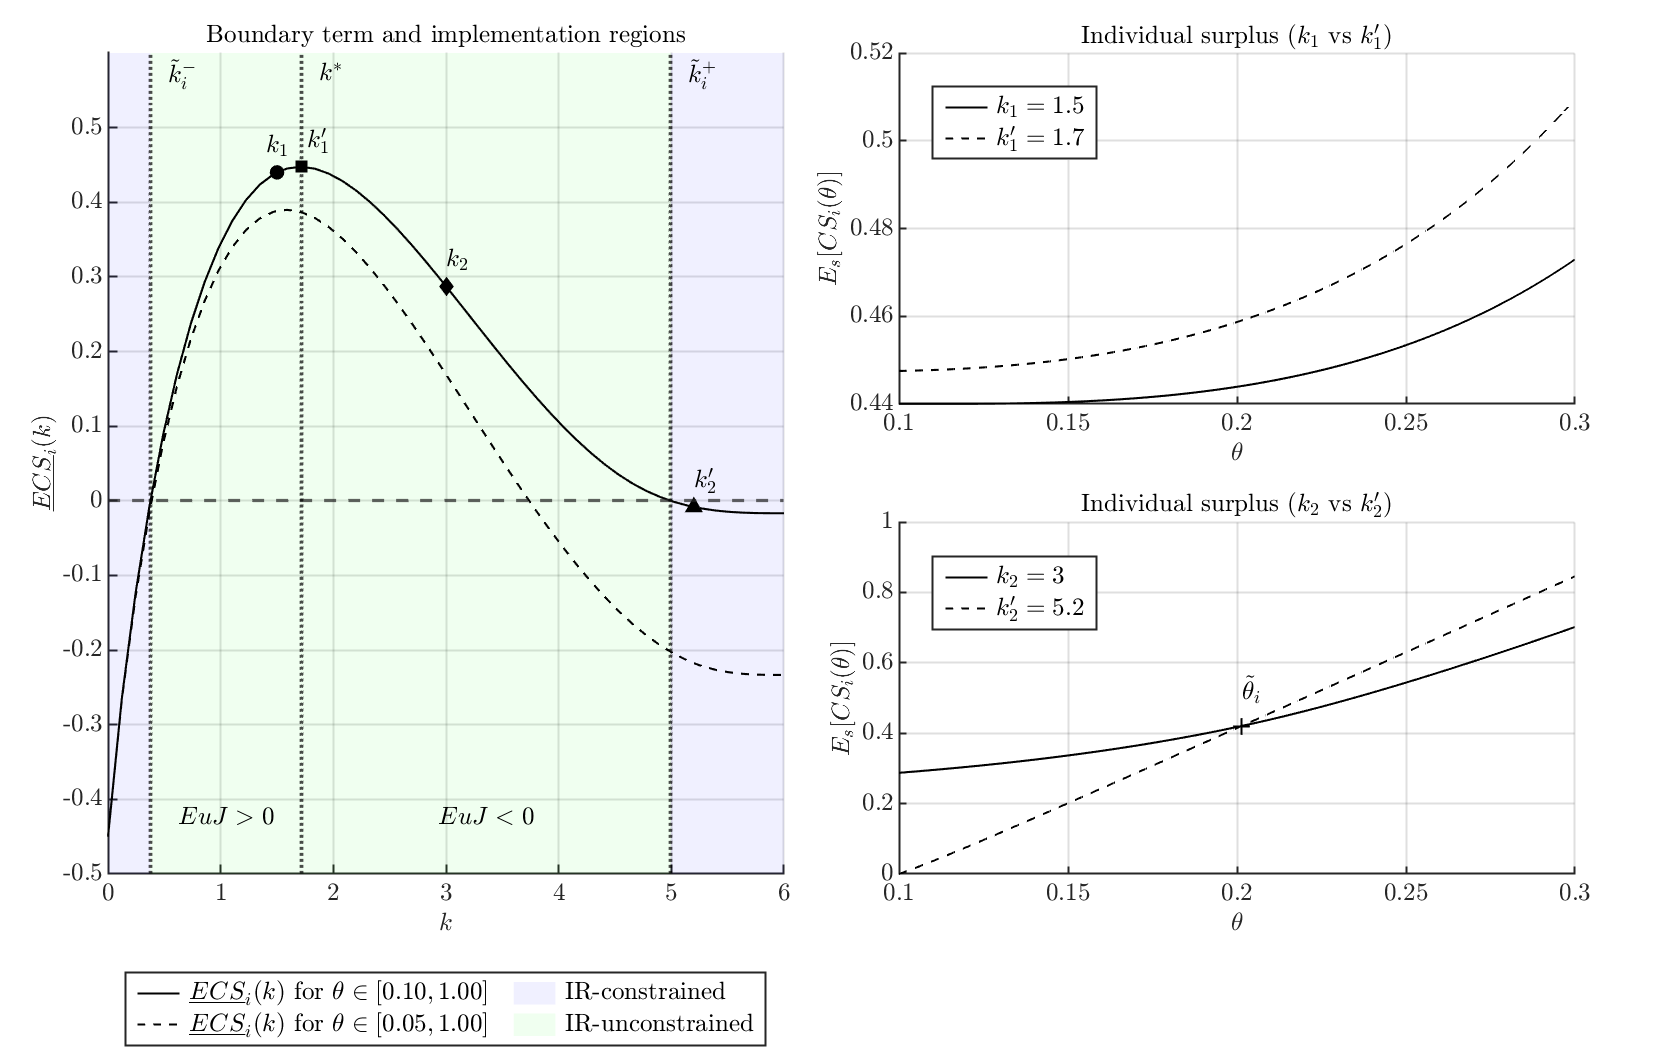
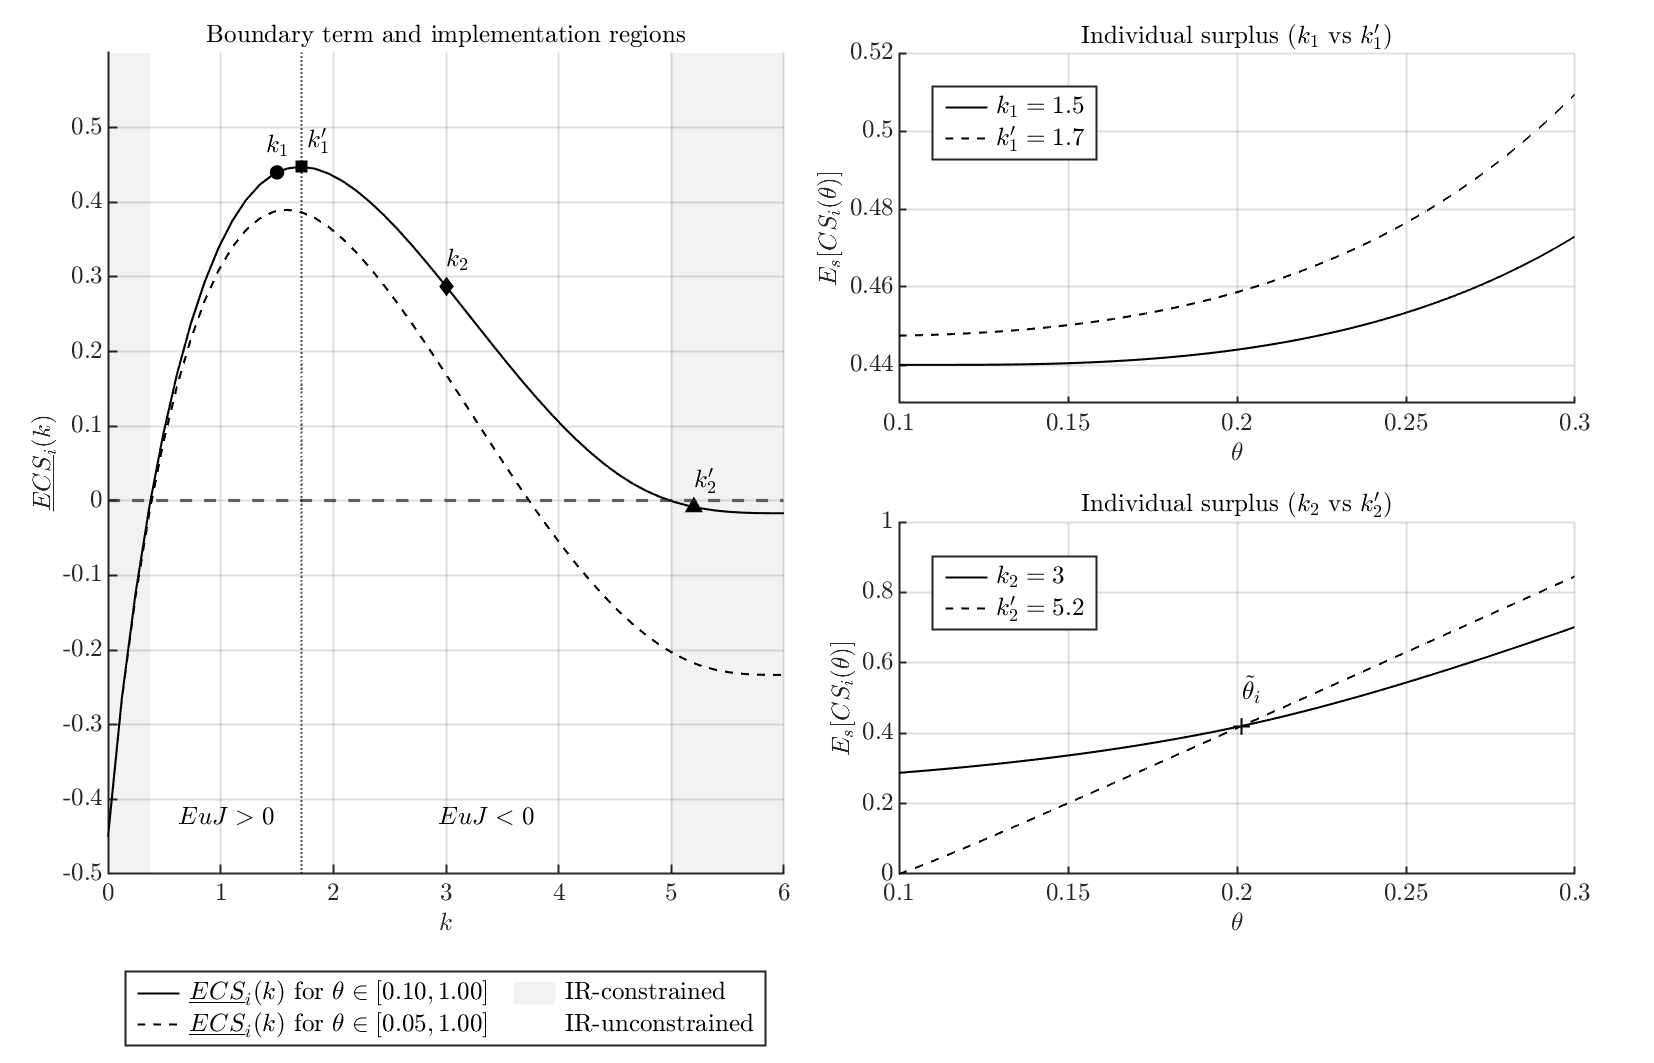
Updates from Overleaf

diff --git a/model_Appendix.tex b/model_Appendix.tex
@@ -175,12 +175,6 @@ Proposition~\ref{prop:implementation} identifies the geometry of the IR-unconstr
 
 Figure~\ref{fig:redistribution_marg_k_uniform} illustrates Theorem~\ref{thm:surplus} and Proposition~\ref{prop:implementation}. The left panel shows the boundary term \eqref{ECSi} as a function of $k_i$ for two type supports, tracing both the implementation region and the sign of \eqref{Eujmd}. The dashed curve has a lower $\underline{\theta}_i$, which increases the mass of consumers with $J_i<0$ and shrinks the range of $k_i$ for which \eqref{Eujmd} is positive, shifting $k^\ast$ to the left. The right panels illustrate the individual surplus effects at two capacity levels: at $k_1$, where \eqref{Eujmd} is positive, all types gain from a capacity expansion; at $k_2$, where \eqref{Eujmd} is negative, only types above the cutoff $\tilde\theta_i$ benefit.
 
-\begin{figure}
-\centering
-\includegraphics[width=1\linewidth]{figure/redistribution_marg_k_uniform.png}
-\caption{Illustration of the individual surplus effect of a capacity expansion. The illustration is based on a quadratic utility function $U(q,s)=(1+s)q - \tfrac{1}{4}q^2,$ with $J_i(\theta)$ derived from a uniform distribution of types, which implies an increasing $R_\theta(\theta)$, and the budget requirement set to $I_i = 0.45$.}
-\label{fig:redistribution_marg_k_uniform}
-\end{figure}
 
 
 %%%%%%%%%%%%%%%%%%%%%%%%%%%%%%%%%%%%%%%%%%%%%%%%%%%%%%%%%%%%%%%%%%%%%%%%%%%%%%%%%%%%%%%%%%%%%%%%%%%%%%%%%%%%%%%%%%%%%%%
@@ -239,12 +233,6 @@ The elasticity condition compares two elasticities: (i) $\left|R_{\mathcal{G}}'(
 
 Figure~\ref{fig:variation_uniform_preference_tradeoff} illustrates this: even when the direction of a preference shift favors the same consumers, a particular concentration of social weight adjustments can exacerbate adverse sorting, worsening rather than improving the trade-off effect.
 
-\begin{figure}
-\centering
-\includegraphics[width=1\linewidth]{figure/variation_uniform_preference_tradeoff.png}
-\caption{Effects of a change in redistributive preferences on the trade-off effect. The first plot shows the new $\lambda_i(\theta)$. The second plot indicates the effect of the perturbation on the term $\Delta R_\theta(\theta)$. The last plot links the condition in Proposition~\ref{prop:Elasticity} to the sign of $\Delta R_\theta'(\theta)$. $R_q(\theta)$ is assumed to be decreasing in $\theta$, $R_\theta(\theta)$ and $J_i(\theta)$ are increasing in $\theta$. In this example, $R_{\mathcal{G}}'(\theta)<0$ and $J_i(\theta)>0$ for all $\theta$, so the worsening effect comes from types generating revenues while receiving proportionally decreasing weights.}
-\label{fig:variation_uniform_preference_tradeoff}
-\end{figure}
 
 %%%%%%%%%%%%%%%%%%%%%%%%%%%%%%%%%%%%%%%%%%%%%%%%%%%%%%%%%%%%%%%%%%%%%%%%%%%%%%%%%%%%%%%%%%%%%%%%%%%%%%%%%%%%%%%%%%%%%%%
 \subsection{Marginal response of category allocations to aggregate capacity}\label{app:dkidk}
@@ -291,6 +279,49 @@ and $\tilde\lambda^\ast I''(k^\ast)>0$. In particular, since \(\Omega_i>0\), for
 \end{lemma}
 
 The lemma shows that the response of \(k_i^\ast\) to aggregate expansion depends on category \(i\) only through the sufficient statistic \(\mathbb E_s\!\left[\mathbb E_i^w[uJ\mid s]\mathbf 1_{\{s\in T_i\}}\right]\). This makes it possible to connect the outer comparative statics to the within-category ordering results.
+
+\newpage
+%%%%%%%%%%%%%%%%%%%%%%%%%%%%%%%%%%%%%%%%%%%%%%%%%%%%%%%%%%%%%%%%%%%%%%%%%%%%%%%%%%%%%%%%%%%%%%%%%%%%%%%%%%%%%%%%%%%%%%%
+
+\section{Additional Figure}
+
+\begin{figure}[H]
+\centering
+\includegraphics[width=1\linewidth]{figure/redistribution_marg_k_uniform.png}
+\caption{Illustration of the individual surplus effect of a capacity expansion. The left panel shows the IR-unconstrained surplus available to the market designer, which can be redistributed to consumers as a function of the category's allocated capacity. When the value is negative, the allocation switches to the IR-Constrained allocation regime. The right panel shows the individual surplus at the optimal allocation across types and at different capacity levels.   The illustration is based on a quadratic utility function $U(q,s)=(1+s)q - \tfrac{1}{4}q^2,$ with $J_i(\theta)$ derived from a uniform distribution of types, which implies an increasing $R_\theta(\theta)$, and the budget requirement set to $I_i = 0.45$.}
+\label{fig:redistribution_marg_k_uniform}
+\end{figure}
+
+\begin{figure}
+    \centering
+    \includegraphics[width=1\linewidth]{figure/appendix_withinperturbation.png}
+    \caption{Comparison of two different redistributive preferences in terms of optimal allocation and of individual surplus with respect to the utilitarian benchmark where $\lambda_i(\theta)=1$. The first panel shows the two social weights that are a mean-preserving perturbation of the benchmark. Case a shows higher weights are placed on higher types, and case b shows higher weights on lower types. The second plot shows the proportional difference in effective social weights. The third plot shows, for a given realization of the state of the world ($s = 0.14$) and a given capacity level ($k_i = 0.9$), the difference in optimal allocation for each type compared to the benchmark. Finally, the last panel shows the same comparison but in terms of expected individual surplus. The utility function is $U(q,s)=a(1+s)\,\frac{q^{\,1-\sigma}}{1-\sigma}$ where $\sigma = 0.6$ and $a =  0.0095$, and types are distributed following a uniform distribution on $[1,2]$.}
+    \label{fig:placeholder}
+\end{figure}
+
+
+\begin{figure}
+\centering
+\includegraphics[width=1\linewidth]{figure/variation_uniform_preference_tradeoff.png}
+\caption{Effects of a change in redistributive preferences. The first plot shows the new $\lambda_i(\theta)$. The second plot indicates the effect of the perturbation on the term $\Delta R_\theta(\theta)$. The last plot links the condition in Proposition~\ref{prop:Elasticity} to the sign of $\Delta R_\theta'(\theta)$. $R_q(\theta)$ is assumed to be decreasing in $\theta$, $R_\theta(\theta)$ and $J_i(\theta)$ are increasing in $\theta$. In this example, $R_{\mathcal{G}}'(\theta)<0$ and $J_i(\theta)>0$ for all $\theta$, so the worsening effect comes from types generating revenues while receiving proportionally decreasing weights.}
+\label{fig:variation_uniform_preference_tradeoff}
+\end{figure}
+
+\begin{figure}
+\centering
+\includegraphics[width=1\linewidth]{figure/appendix_two_scenarios_six_panels.png}
+\caption{Illustration of different perturbations of welfare weights $\lambda_i(\theta)$ with respect to a utilitarian benchmark where $\lambda_i(\theta)=1$. The first column of plots shows the different welfare weights. The second column of plots shows the resulting absolute difference in effective social weights, $\Delta\G_i(\theta)$, aggregated across the category. The third column of plots shows the resulting proportional difference in effective social weights, $R_\G(\theta)$, aggregated across the category. The distribution used to compute $J_i(\theta)$ is a uniform distribution on $[1,2]$. }
+\label{fig:appendix_two_scenarios_six_panels}
+\end{figure}
+
+\begin{figure}
+\centering
+\includegraphics[width=1\linewidth]{figure/appendix_N_categories_six_panels.png}
+\caption{Optimal allocation of the global capacity level ($k = 30$) across 50 categories. We derive two cases in which categories are ordered along the following path: in case A, a category $i+1$ has an increasing of both the average social weight $\tilde \lambda_i(\theta)$ (first panel) and of the preferences for higher types compared to lower types ($m_i(\overline \theta)>m_i(\underline \theta)$ - third panel). In case B, a category $i+1$ has an increasing of the average social weight $\tilde \lambda_i(\theta)$ and of the preferences for lower types compared to higher types ($m_i(\overline \theta)<m_i(\underline \theta)$). To ensure comparability, the path of average social weight is the same across the two cases. We show in the second panel the successive value of the sufficient statistic $E_{\theta_i}[R_{\G}(\theta)]$ that governs Theorem~\ref{thm:cat-order}. It is computed for each successive pair of categories. The equilibrium allocation in terms of  $k_i^\ast$ is shown on the fourth panel. The utility function is $U(q,s) = \frac{(1+s)}{\alpha}\left(1 - e^{-\alpha q}\right)$ where $\alpha = 5$, and types are distributed following a uniform distribution on $[1,2]$.}
+\label{fig:appendix_N_categories_six_panels}
+\end{figure}
+
+
 %%%%%%%%%%%%%%%%%%%%%%%%%%%%%%%%%%%%%%%%%%%%%%%%%%%%%%%%%%%%%%%%%%%%%%%%%%%%%%%%%%%%%%%%%%%%%%%%%%%%%%%%%%%%%%%%%%%%%%%
 \section{Proofs}
 

diff --git a/final_version.tex b/final_version.tex
@@ -810,6 +810,8 @@ k_1^\ast\le\cdots\le k_n^\ast.
 
 The corollary provides a sharp economic ranking of categories by participation in revenue extraction and capacity allocation. A higher average social weight \(\tilde\lambda_i\) alone is not enough for a category to receive more capacity: what also matters is how redistributive preferences are tilted across types. Categories that place proportionally more weight on higher types have a larger effective weight $\G_i(\theta)=J_i(\theta)\bigl(\tilde\lambda_i+\beta_i\bigr)+\Lambda_i(\theta)$, not only through the average term \(\tilde\lambda_i+\beta_i\), but also through the informational-rent component \(\Lambda_i(\theta)\). Under Assumption~\ref{ass:ordered-path}, these two forces move in the same direction. As a result, categories that are higher in the redistributive ordering optimally bear a lower shadow cost of revenue and receive a larger capacity.
 
+In Figure XXX in the Appendix, we provide a numerical simulation of the sufficient condition. We compute the optimal allocation of $k_i$ across 50 categories for a given $k$. The categories are ordered in two cases such that the average weight is strictly increasing in both, but the preferences are gradually tilted either towards higher or lower types. While in the second case, the capacity may be increasing for some successive categories, we see a clear reverse in the ranking at some level compared to the first case, which satisfied the condition of the corollary.
+
 
 \subsection{Optimal investment}
 
